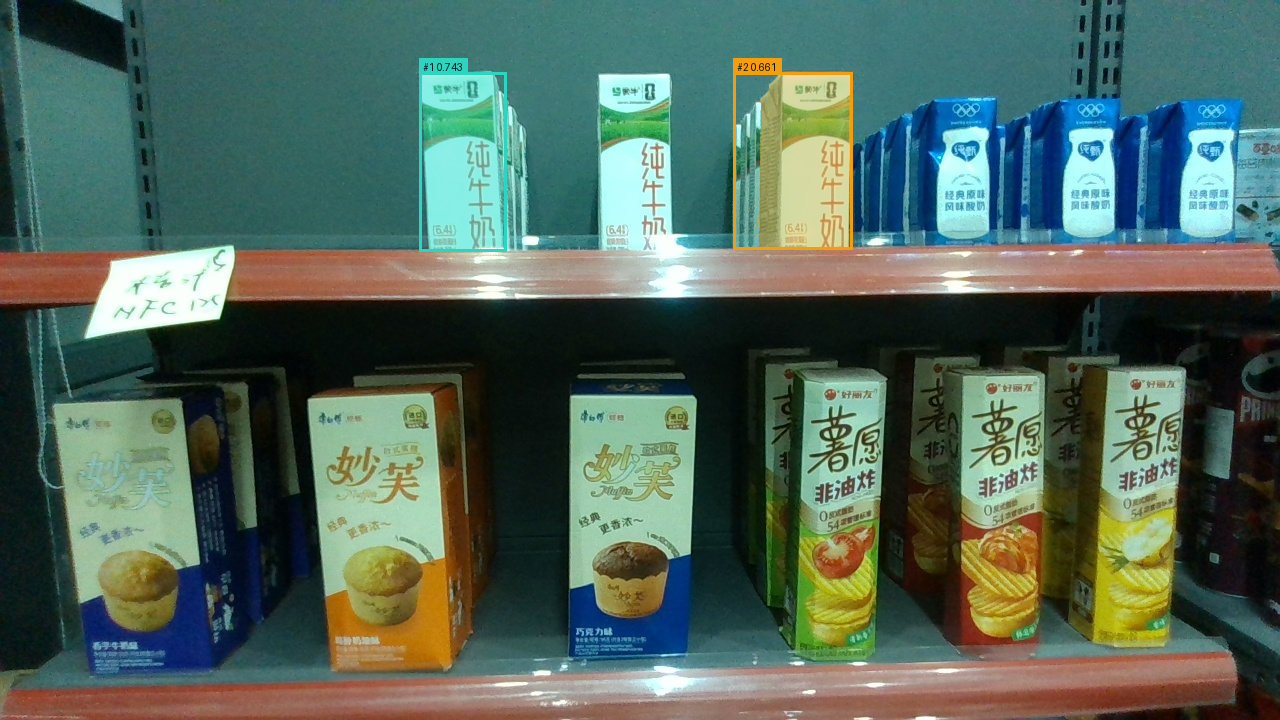
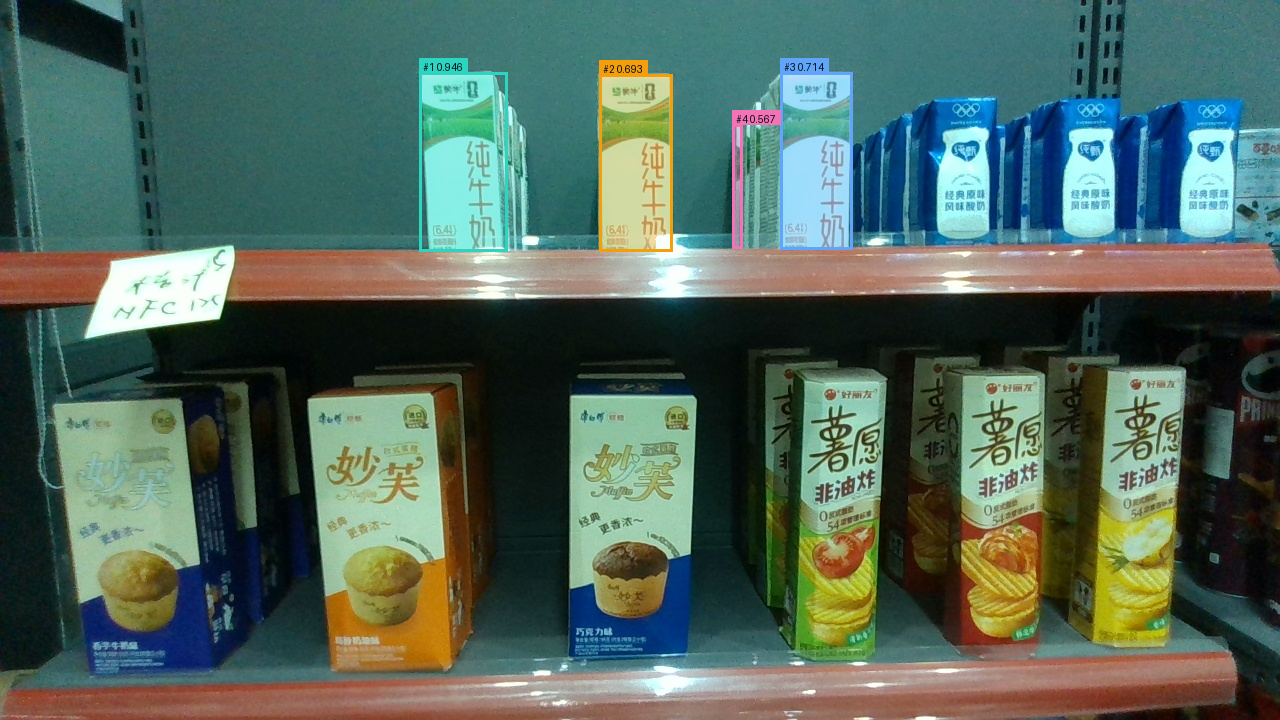
update pick locate api

Changed region(s): [[0.5625, 0.0611, 0.6875, 0.3667], [0.4688, 0.0611, 0.5312, 0.3667]]

diff --git a/perception/pick/locate/main.py b/perception/pick/locate/main.py
@@ -48,6 +48,9 @@ SAM_BBOX_OVERLAP_MIN_RATIO = float(
 SAM_FRONT_AREA_DOMINANCE_RATIO = float(
     os.getenv("SAM_FRONT_AREA_DOMINANCE_RATIO", "2.0")
 )
+SAM_SMALLEST_MASK_MAX_RATIO = float(
+    os.getenv("SAM_SMALLEST_MASK_MAX_RATIO", "0.5")
+)
 REQUEST_TIMEOUT_SECONDS = 120
 
 app = FastAPI(title="Sorting Pick Locate", version="2.0.0")
@@ -584,6 +587,36 @@ def keep_frontmost_in_overlap_chains(
     return [instance for _, instance in sorted(selected, key=lambda item: item[0])]
 
 
+def drop_smallest_mask_area_outlier(
+    instances: list[LocatedInstance],
+) -> list[LocatedInstance]:
+    """最小 mask 不超过第二小 mask 的指定比例时，只删除该最小离群项一次。"""
+    if len(instances) < 2:
+        return instances
+
+    by_mask_area = sorted(
+        (
+            (index, mask_foreground_pixel_count(instance.mask))
+            for index, instance in enumerate(instances)
+        ),
+        key=lambda item: item[1],
+        reverse=True,
+    )
+    smallest_index, smallest_area = by_mask_area[-1]
+    second_smallest_area = by_mask_area[-2][1]
+    if (
+        second_smallest_area > 0
+        and smallest_area
+        <= SAM_SMALLEST_MASK_MAX_RATIO * second_smallest_area
+    ):
+        return [
+            instance
+            for index, instance in enumerate(instances)
+            if index != smallest_index
+        ]
+    return instances
+
+
 def locate_product_in_image(
     product: dict[str, Any], image_path: Path
 ) -> LocateResponse:
@@ -625,6 +658,7 @@ def locate_product_in_image(
         raise HTTPException(status_code=404, detail="SAM3 没有找到目标商品实例")
 
     located_instances = keep_frontmost_in_overlap_chains(located_instances)
+    located_instances = drop_smallest_mask_area_outlier(located_instances)
 
     return LocateResponse(
         sku_id=product["sku_id"],

diff --git a/perception/pick/locate/test_main.py b/perception/pick/locate/test_main.py
@@ -267,6 +267,47 @@ class LocateLogicTest(unittest.TestCase):
 
         self.assertEqual(filtered, [first, second])
 
+    def test_smallest_mask_under_half_of_second_smallest_is_removed(self) -> None:
+        instances = [
+            main.LocatedInstance(
+                bbox=[0, 0, 10, 10],
+                mask=mask_base64_with_pixel_count((30, 10), 100),
+                score=0.8,
+            ),
+            main.LocatedInstance(
+                bbox=[10, 0, 20, 10],
+                mask=mask_base64_with_pixel_count((30, 10), 40),
+                score=0.8,
+            ),
+            main.LocatedInstance(
+                bbox=[20, 0, 30, 10],
+                mask=mask_base64_with_pixel_count((30, 10), 10),
+                score=0.8,
+            ),
+        ]
+
+        filtered = main.drop_smallest_mask_area_outlier(instances)
+
+        self.assertEqual(filtered, instances[:2])
+
+    def test_smallest_mask_over_half_of_second_smallest_is_kept(self) -> None:
+        instances = [
+            main.LocatedInstance(
+                bbox=[0, 0, 10, 10],
+                mask=mask_base64_with_pixel_count((20, 10), 100),
+                score=0.8,
+            ),
+            main.LocatedInstance(
+                bbox=[10, 0, 20, 10],
+                mask=mask_base64_with_pixel_count((20, 10), 60),
+                score=0.8,
+            ),
+        ]
+
+        filtered = main.drop_smallest_mask_area_outlier(instances)
+
+        self.assertEqual(filtered, instances)
+
     def test_locate_returns_multiple_original_instances(self) -> None:
         with tempfile.TemporaryDirectory() as temporary_directory:
             image_path = Path(temporary_directory) / "frame_rgb.jpg"

diff --git a/perception/pick/locate/test_web/FRONT_MASK_HEURISTIC.md b/perception/pick/locate/test_web/FRONT_MASK_HEURISTIC.md
@@ -19,11 +19,14 @@ overlap_ratio = intersection_area / min(bbox_area_1, bbox_area_2)
 3. 否则计算 `mask_density = mask_area / bbox_area`，保留密度最大的实例。
 4. 密度相同时，依次比较 mask 面积、SAM3 score、bbox 面积。
 
+完成所有重叠链过滤后，再执行一次全局最小面积离群过滤：将剩余实例按 mask 前景像素面积从大到小排序；如果最小 mask 面积不超过第二小 mask 面积的 50%，删除最小实例。该规则只执行一次，不循环删除，避免连续误删多个正常商品。
+
 可通过环境变量调节：
 
 ```text
 SAM_BBOX_OVERLAP_MIN_RATIO=0.2
 SAM_FRONT_AREA_DOMINANCE_RATIO=2.0
+SAM_SMALLEST_MASK_MAX_RATIO=0.5
 ```
 
 这里使用“交集占较小框比例”而不是 IoU，是因为同一商品的重复检测框可能一大一小或互相嵌套，此时 IoU 可能偏低，但较小框实际上大部分位于较大框内。

diff --git a/perception/pick/locate/README.md b/perception/pick/locate/README.md
@@ -97,6 +97,7 @@ python main.py
 - `instances` 可以包含多个目标，每个 bbox 与同一对象的 mask 一一对应。
 - `qwen_bboxes` 记录经过三次采样共识去重、实际送给 SAM3 的 Qwen bbox，包括模型的 `[0,1000]` 坐标、原图像素坐标和外扩后的 crop 坐标。
 - bbox 交集默认覆盖较小框至少 20% 才组成重叠链；链内最大 mask 达到第二名 2 倍时直接保留最大 mask，否则保留 `mask前景像素数 / bbox面积` 最大者。可通过 `SAM_BBOX_OVERLAP_MIN_RATIO` 和 `SAM_FRONT_AREA_DOMINANCE_RATIO` 调节阈值。
+- 重叠链过滤后，若最小 mask 面积不超过第二小 mask 的 50%，会再删除这个最小面积离群项一次；通过 `SAM_SMALLEST_MASK_MAX_RATIO` 调节阈值。
 
 ## Prompt 文件
 
